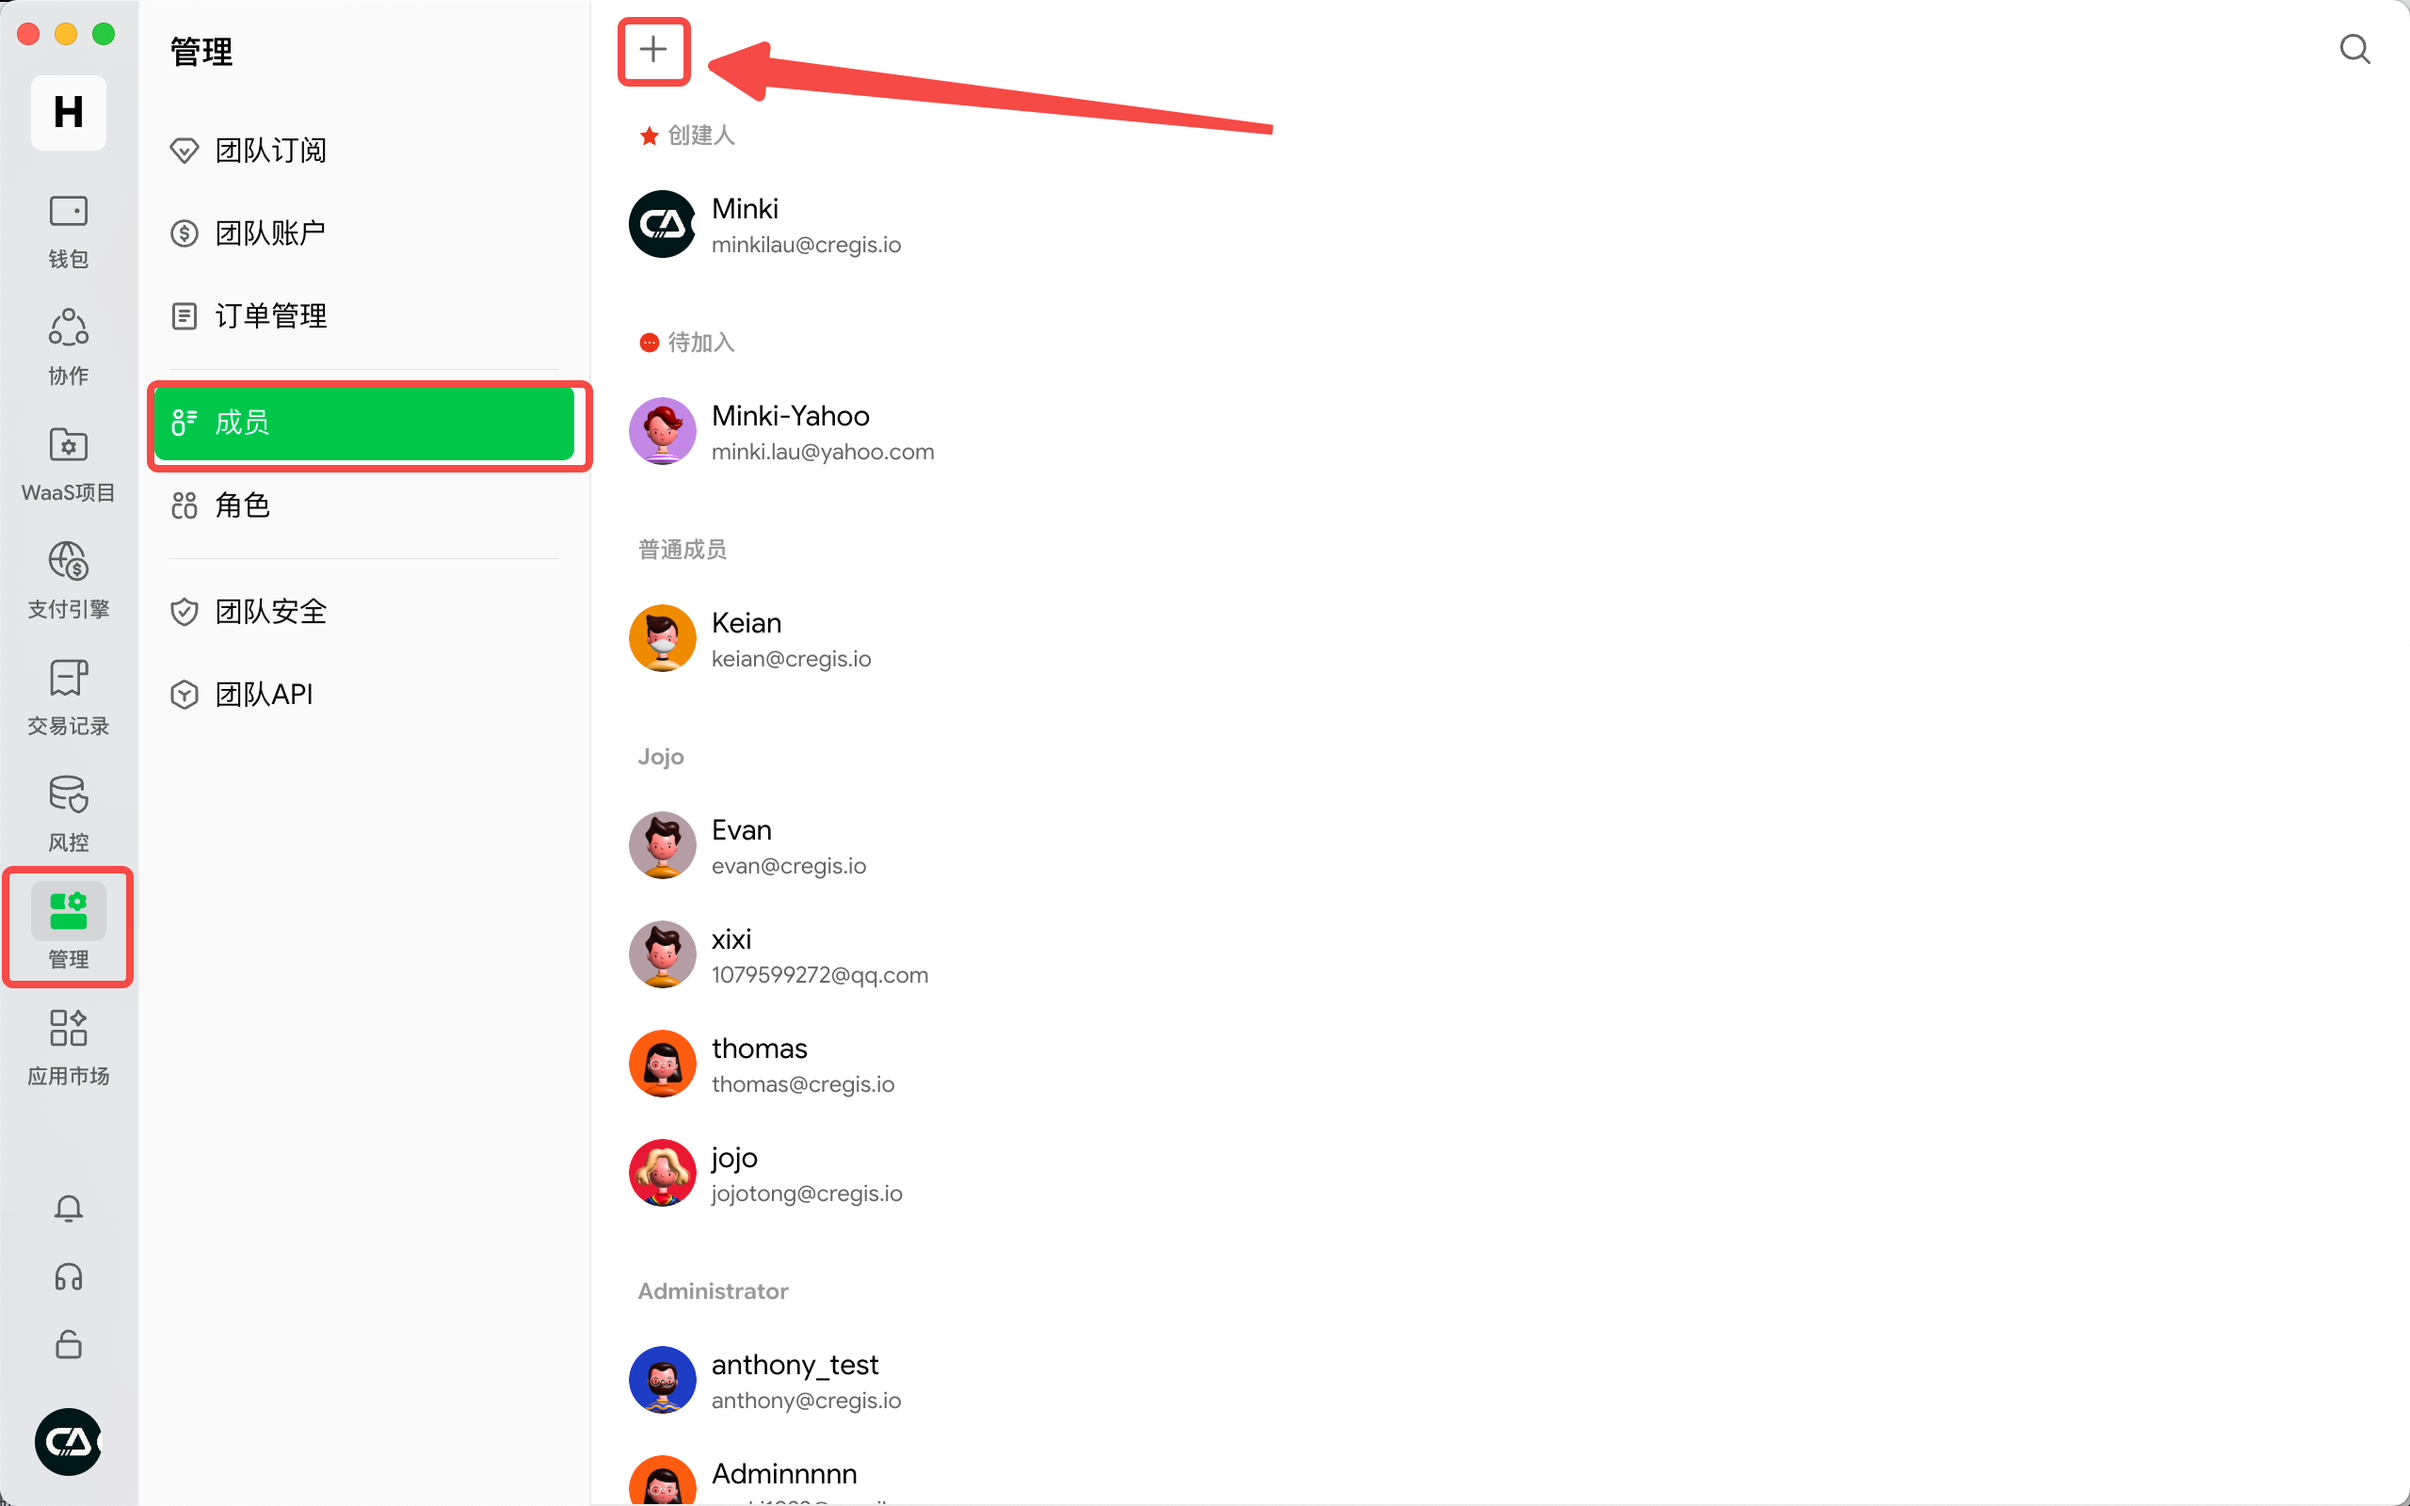
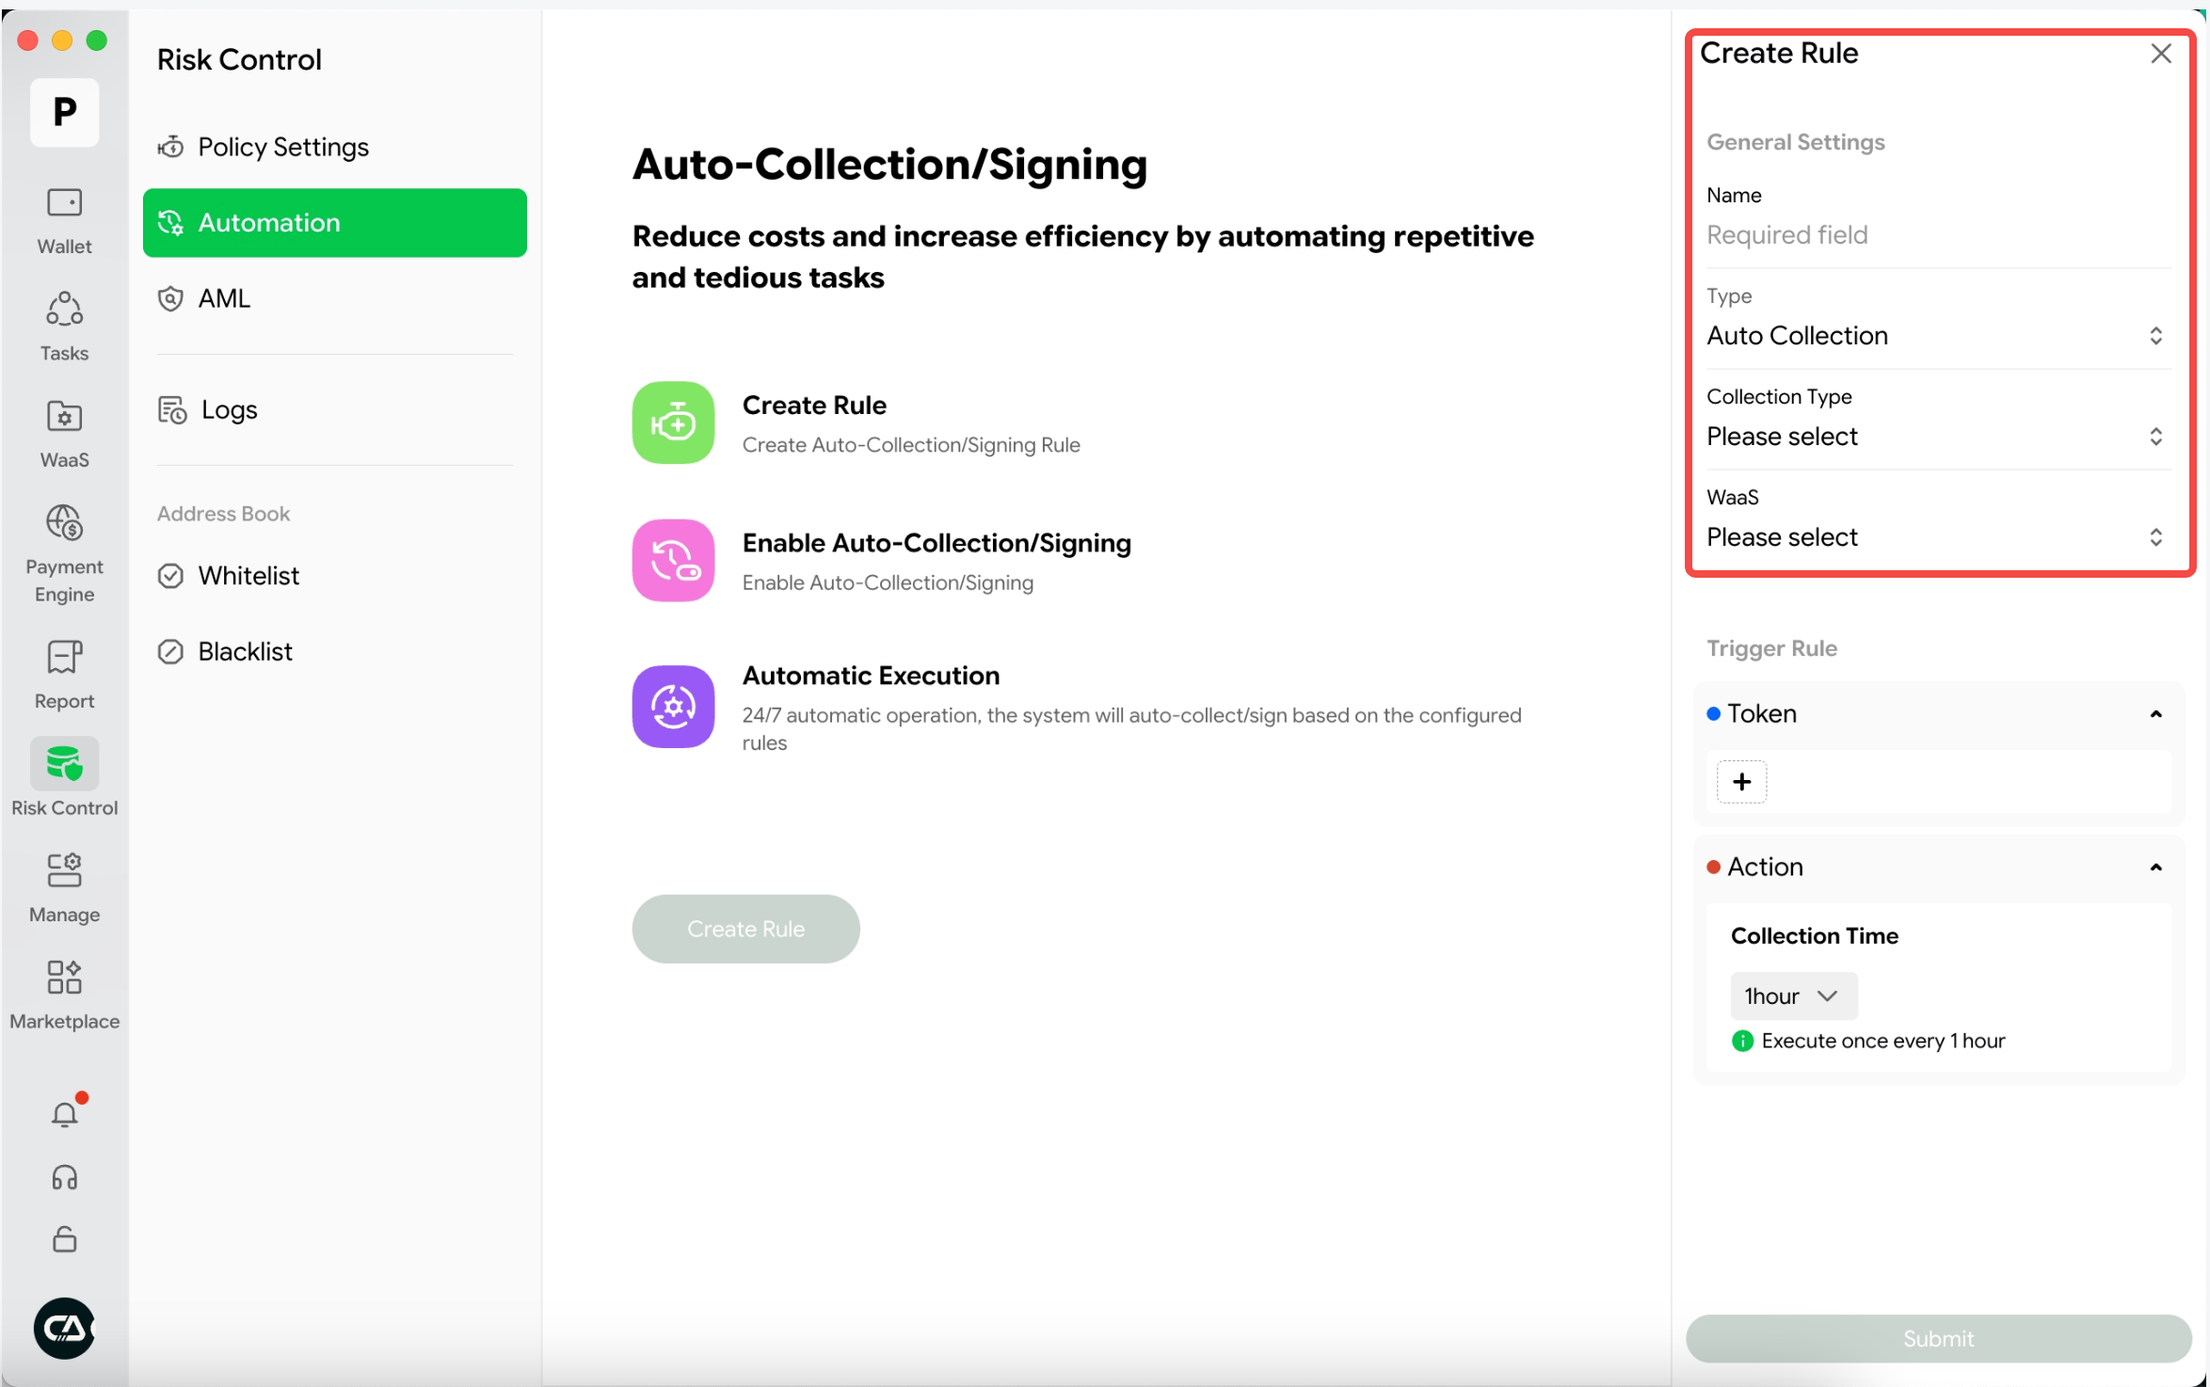
GITBOOK-198: No subject

diff --git a/3.-wallet-and-risk-control/auto-collection-signing.md b/3.-wallet-and-risk-control/auto-collection-signing.md
@@ -4,7 +4,7 @@
 
 This automated feature allows users to perform automatic fund collection and transaction signing based on preset rules, eliminating the need for manual monitoring by the enterprise. Once the rules are set, the system can operate 24/7 according to the configured rules, significantly reducing manual intervention. For example, while enterprises previously had to manually collect funds daily, with this automated feature, users can set intervals for automatic fund collection. Additionally, collection can be triggered when a specific cryptocurrency reaches a certain amount. Currently, the auto-signing feature is limited to API withdrawals and is only available for single-signature wallets. Furthermore, all these automated functions are performed locally, requiring no custodial sharding actions. Users only need to stay online to execute them, ensuring system security while greatly improving operational efficiency for businesses requiring frequent transactions.<br>
 
-<figure><img src="../.gitbook/assets/image (828).png" alt=""><figcaption></figcaption></figure>
+<figure><img src="../.gitbook/assets/img_v3_0215h_7c292554-04e6-4409-a6db-684b401395hu.jpg" alt=""><figcaption></figcaption></figure>
 
 ## Pricing and Activation Process
 
@@ -78,13 +78,13 @@ Trigger rules require setting the cryptocurrency, collection time, and receiving
 
 After clicking "Create Rule," a sidebar will pop up to begin configuration.
 
-<figure><img src="../.gitbook/assets/image (838).png" alt=""><figcaption></figcaption></figure>
+<figure><img src="../.gitbook/assets/img_v3_0215h_c6f0f7eb-85ec-41f8-a131-1302279021hu.jpg" alt=""><figcaption></figcaption></figure>
 
 **Basic Settings**&#x20;
 
 When creating a rule, first set the name and type. After selecting the "Auto Signing" type, a section will pop up requiring the selection of the withdrawal type and withdrawal wallet. <mark style="color:green;">**Please note that only single-signature wallets are supported, and the default payment address will be used for signing and withdrawals.**</mark><br>
 
-<figure><img src="../.gitbook/assets/image (839).png" alt=""><figcaption></figcaption></figure>
+<figure><img src="../.gitbook/assets/image (1207).png" alt=""><figcaption></figcaption></figure>
 
 **Trigger Conditions**
 
